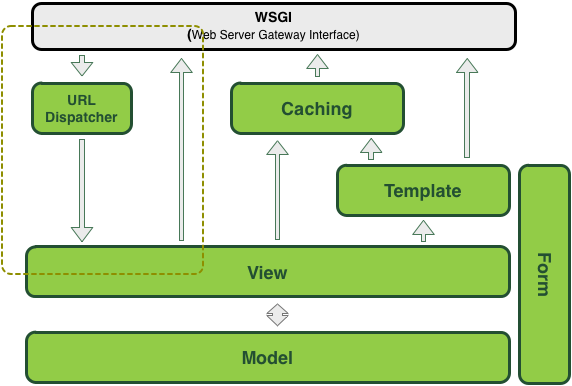
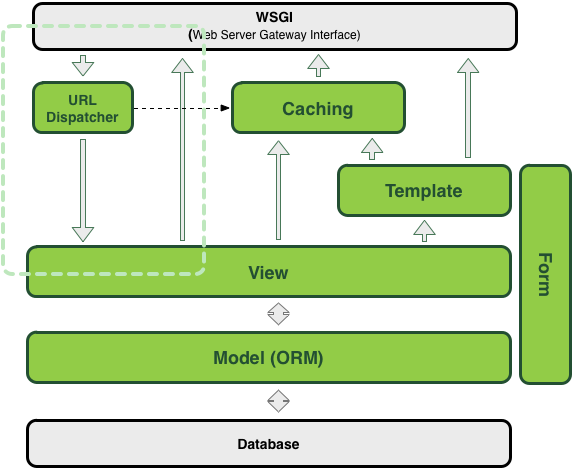
Work in progress

diff --git a/django.rst b/django.rst
@@ -106,7 +106,6 @@ Django is not a magical wand
 	
 ----
 
-	
 
 Django project structure
 ========================
@@ -133,7 +132,6 @@ Supported database
 Database migration tool available
 
 ----
-
 
 Components
 ==========
@@ -166,6 +164,20 @@ Other components
 .. note:: 
 	- Some components are provided by 3rd party applications.
 	- Application can introspect project to enhance its behavior
+
+----
+
+
+Programing language
+===================
+
+* Everything is in **python**
+* ... excepted **templates** ...
+* that are just **unicode text** with tags
+	* ``{% if var %} ... {% endif %}`` 
+	* ``{{ var }}`` 
+* Only a Little knowledge of python is required to start working with django
+
 
 ----
 
@@ -214,6 +226,43 @@ Typical dev deployment
 	logstash - exlasticsearch - kibana ( for logging )
 	demo : http://80.245.24.197:8080/
 
+----
+
+Deploying django
+================
+
+- exoscale
+	http://www.exoscale.ch/
+	
+- Heroku 
+	https://www.heroku.com/
+	
+- Google app engine
+	https://developers.google.com/appengine/
+
+- Amazon AWS
+	http://aws.amazon.com/
+	
+----
+
+References
+==========
+
+* Django project documentation 
+	https://docs.djangoproject.com/en/dev/
+
+* Django packages directory
+	https://www.djangopackages.com/ 
+	
+* Django on github 
+	https://github.com/django/django
+
+* Expert book
+	http://prodjango.com/
+
+* This presentation
+	https://github.com/dsaradini/django-presentation
+	
 ----
 
 Level 2: Inside django
@@ -319,7 +368,7 @@ Duck typing
 	
 	
 	class Container(object):
-		def __contains__(self, value):
+	   def __contains__(self, value):
 
 	if 'django' in my_container:
 	   print "Found django in my saloon"
@@ -843,11 +892,48 @@ View Mixin
 		   
 ----
 
-
 Template
 ========
 
+- Templates are just plain unicode text string with special tags
+	- HTML pages
+	- text email content
+
+- Default template engine can be changed
+	- jinja2
+	- jquery template
+	- ...
+	
+- Default template engine is **not** a scripting language
+
 ----
+
+Template tags
+=============
+
+- Display variables from context with filters
+	- ``{{ x|date }}``
+	
+- conditional blocks
+	- ``{% if x %} .. {% elif y %} .. {% else %} .. {% endif %}``
+	
+- loop blocks
+	- ``{% for x in y %} ... {% endfor %}`` 
+
+- localization support with pluralization
+	- ``{% trans "my string" %}``
+	- ``{ %blocktrans %} ... {% endblocktrans %}``
+	
+----
+
+More template tags
+==================
+
+- block replacement
+	``{% block name %} ... {% endblock %}
+	
+
+---- 
 
 Form
 ====
@@ -876,3 +962,5 @@ The End
 =======
 
 or just the beginning taming django?
+
+https://github.com/dsaradini/django-presentation
